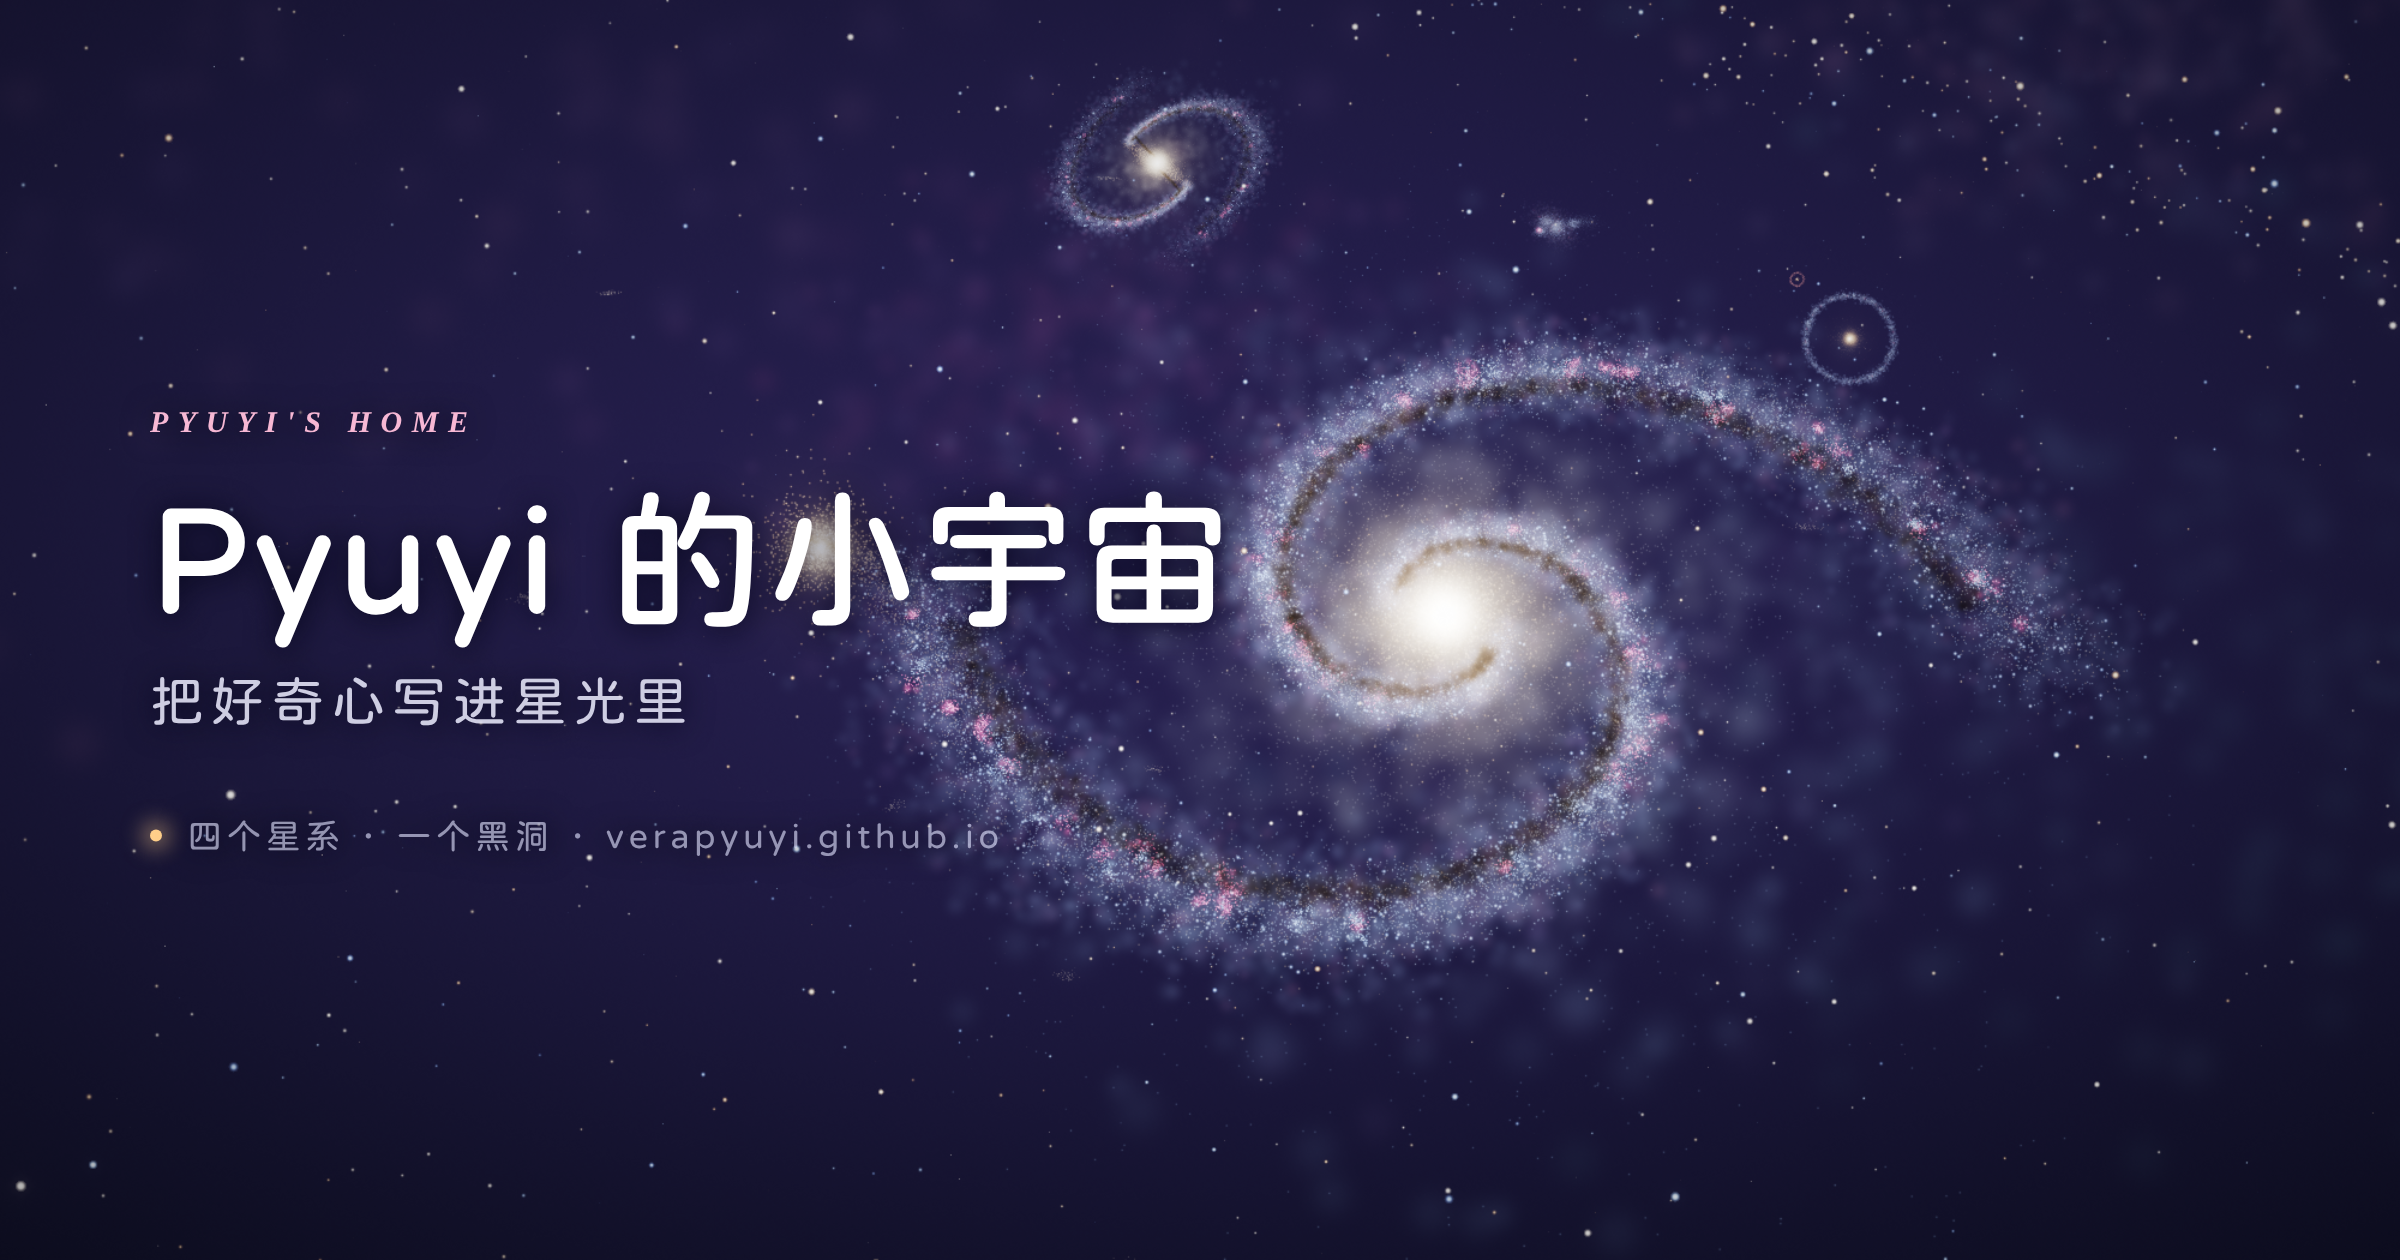
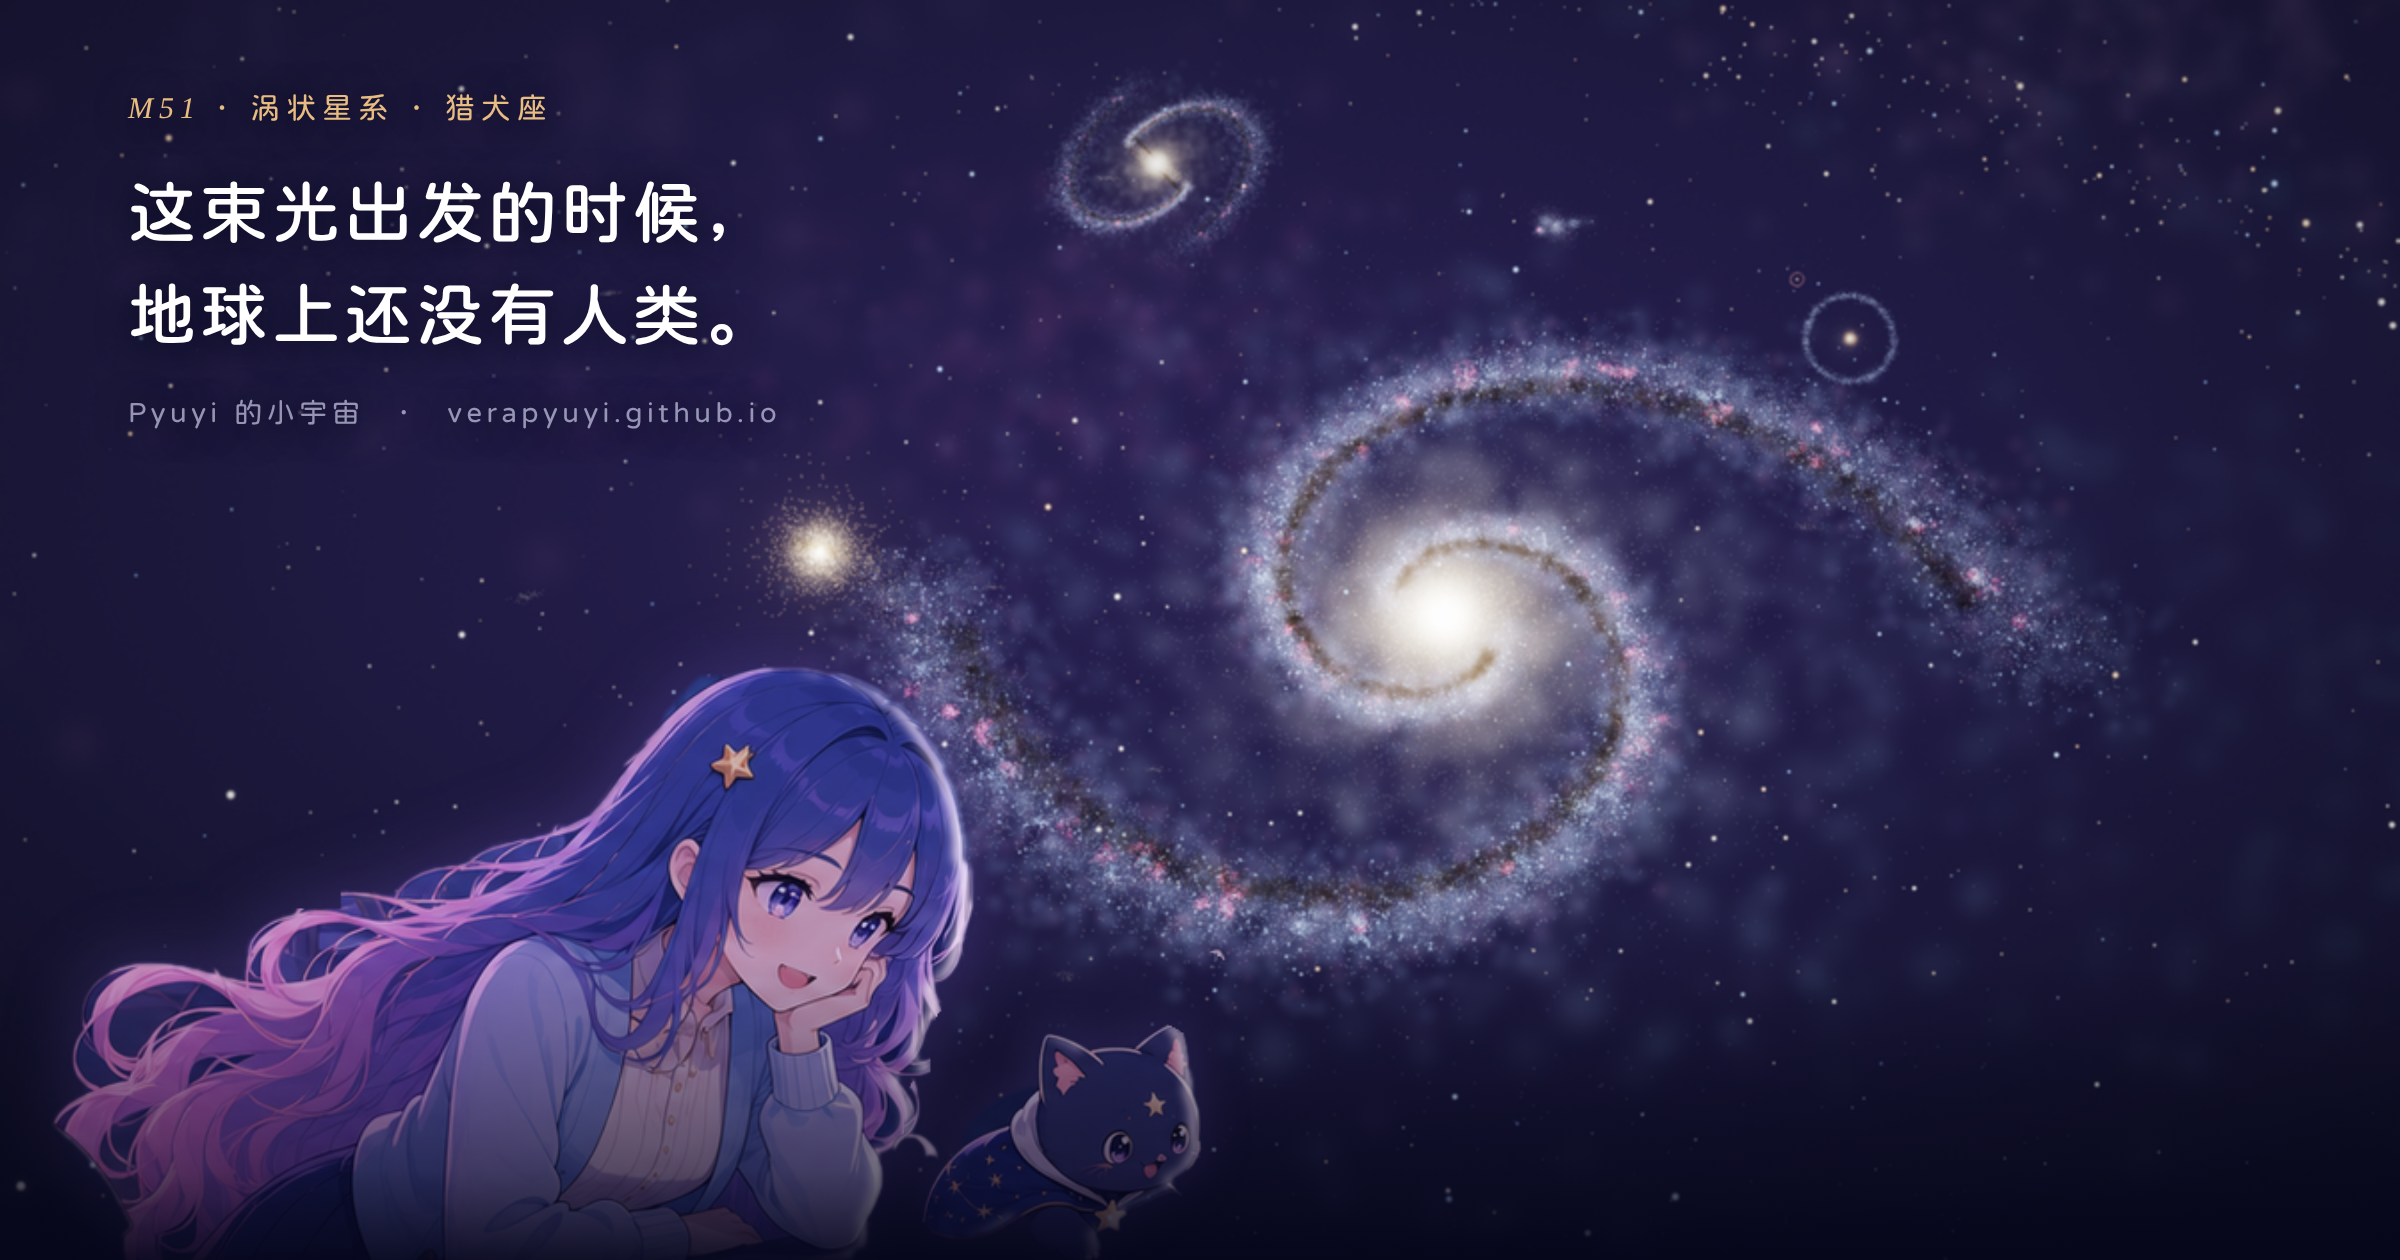
补齐首页分享图并修复阻塞部署的测试 (#11)
* feat(seo): quieter share card copy, as an observatory plate caption

Replace the eyebrow, slogan and feature list with a caption in the manner
of an astronomical plate: "M51 · 涡状星系 · 猎犬座", the line
"这束光出发的时候，地球上还没有人类。" (M51 is 23–31 million light-years
away; Homo sapiens is ~300,000 years old), and the site name and address
in small type. Alt text updated to match.

Claude-Session: https://claude.ai/code/session_01EX2fcRM11kv9xBZ3WURKiN

* feat(seo): bring the site's girl and star cat into the homepage share card

The original researcher character (from the site's own cover art) and the
star cat now lean out of the dark at the bottom of the card, watching the
Whirlpool Galaxy, under the plate caption "这束光出发的时候，地球上还没有人类。"

- Cut out of the multi-agent cooperation cover (mirrored so she faces the
  galaxy) with GrabCut; the cat is placed separately on the same ledge.
- Graded for night (dimmer, cooler, nudged to the scene's violet) with a
  rim light from the galaxy side and a faint violet glow, and faded into a
  soft band of darkness instead of a hard edge, so she sits in the scene
  rather than on top of it.
- Composited at the card's native 1200×630 (2×), so she stays close to the
  source resolution. Alt text updated.

Claude-Session: https://claude.ai/code/session_01EX2fcRM11kv9xBZ3WURKiN

* test(home): expect the homepage share image in the Open Graph props

The homepage now passes its own share card (siteConfig.homeOgImage) and alt
[…]

diff --git a/tests/papers/site-aggregate.test.ts b/tests/papers/site-aggregate.test.ts
@@ -43,7 +43,7 @@ test('the homepage uses original bilingual feature copy and only overrides the b
   assert.match(home, /<GalaxyFlight locale=\{locale\} \/>/);
   assert.ok(home.includes("const browserTitle = 'Pyuyi’s Home';"));
   assert.match(home, /title=\{browserTitle\}/);
-  assert.match(home, /openGraph=\{\{ title: seoConfig\.title \}\}/);
+  assert.match(home, /openGraph=\{\{\s*title: seoConfig\.title,\s*image: siteConfig\.homeOgImage,/);
 });
 
 test('aggregate content contains three papers and twelve bilingual blog articles', () => {
